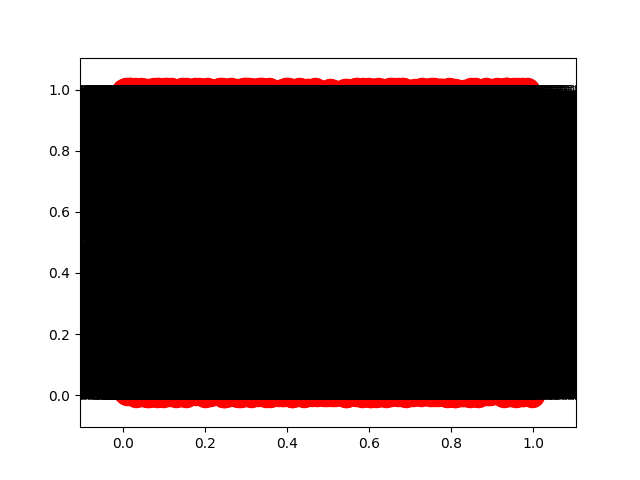
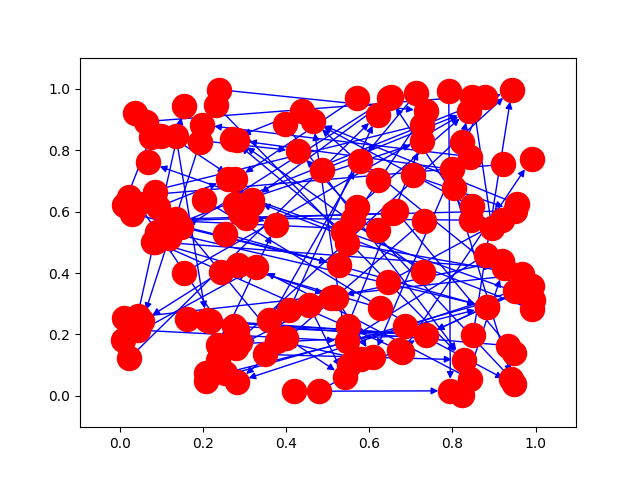
Feature: Update node_graph.png

diff --git a/tools/graph_show.py b/tools/graph_show.py
@@ -15,7 +15,7 @@ sheet = excel.get_sheet_by_name("EnterpriseMap")
 # row between 133 - 10006
 # col C:company D:LE E:SH
 column = ["C", "D", "E"]
-rows = 10006
+rows = 180
 
 # for col in column:
 node_dict = {}
@@ -30,13 +30,19 @@ node_graph.clear()
 
 print("* NX build graph")
 for from_nodes, to_node in node_dict.items():
-    from_node_list = str(from_nodes).split("，")
-    # print(str(from_nodes),"->",str(to_node))
+    from_node_list = str(from_nodes).split(",")
     for from_node in from_node_list:
+        # print from_node,"->",to_node
         node_graph.add_edge(from_node, to_node)
 
 print("* NX draw graph")
-nx.draw_networkx(node_graph, pos=nx.random_layout(node_graph), with_labels=True, font_size=8, node_color="r", edge_color="black")
+# nx.draw_networkx(node_graph, pos=nx.random_layout(node_graph), with_labels=True, font_size=8, node_color="r", edge_color="black")
+nx.draw_networkx(node_graph,
+                 pos=nx.random_layout(node_graph),
+                 with_labels=False,
+                 font_size=6,
+                 node_color="r",
+                 edge_color="b")
 print("* NX save graph")
 pic_name = "node_graph.png"
 plt.savefig(pic_name)
